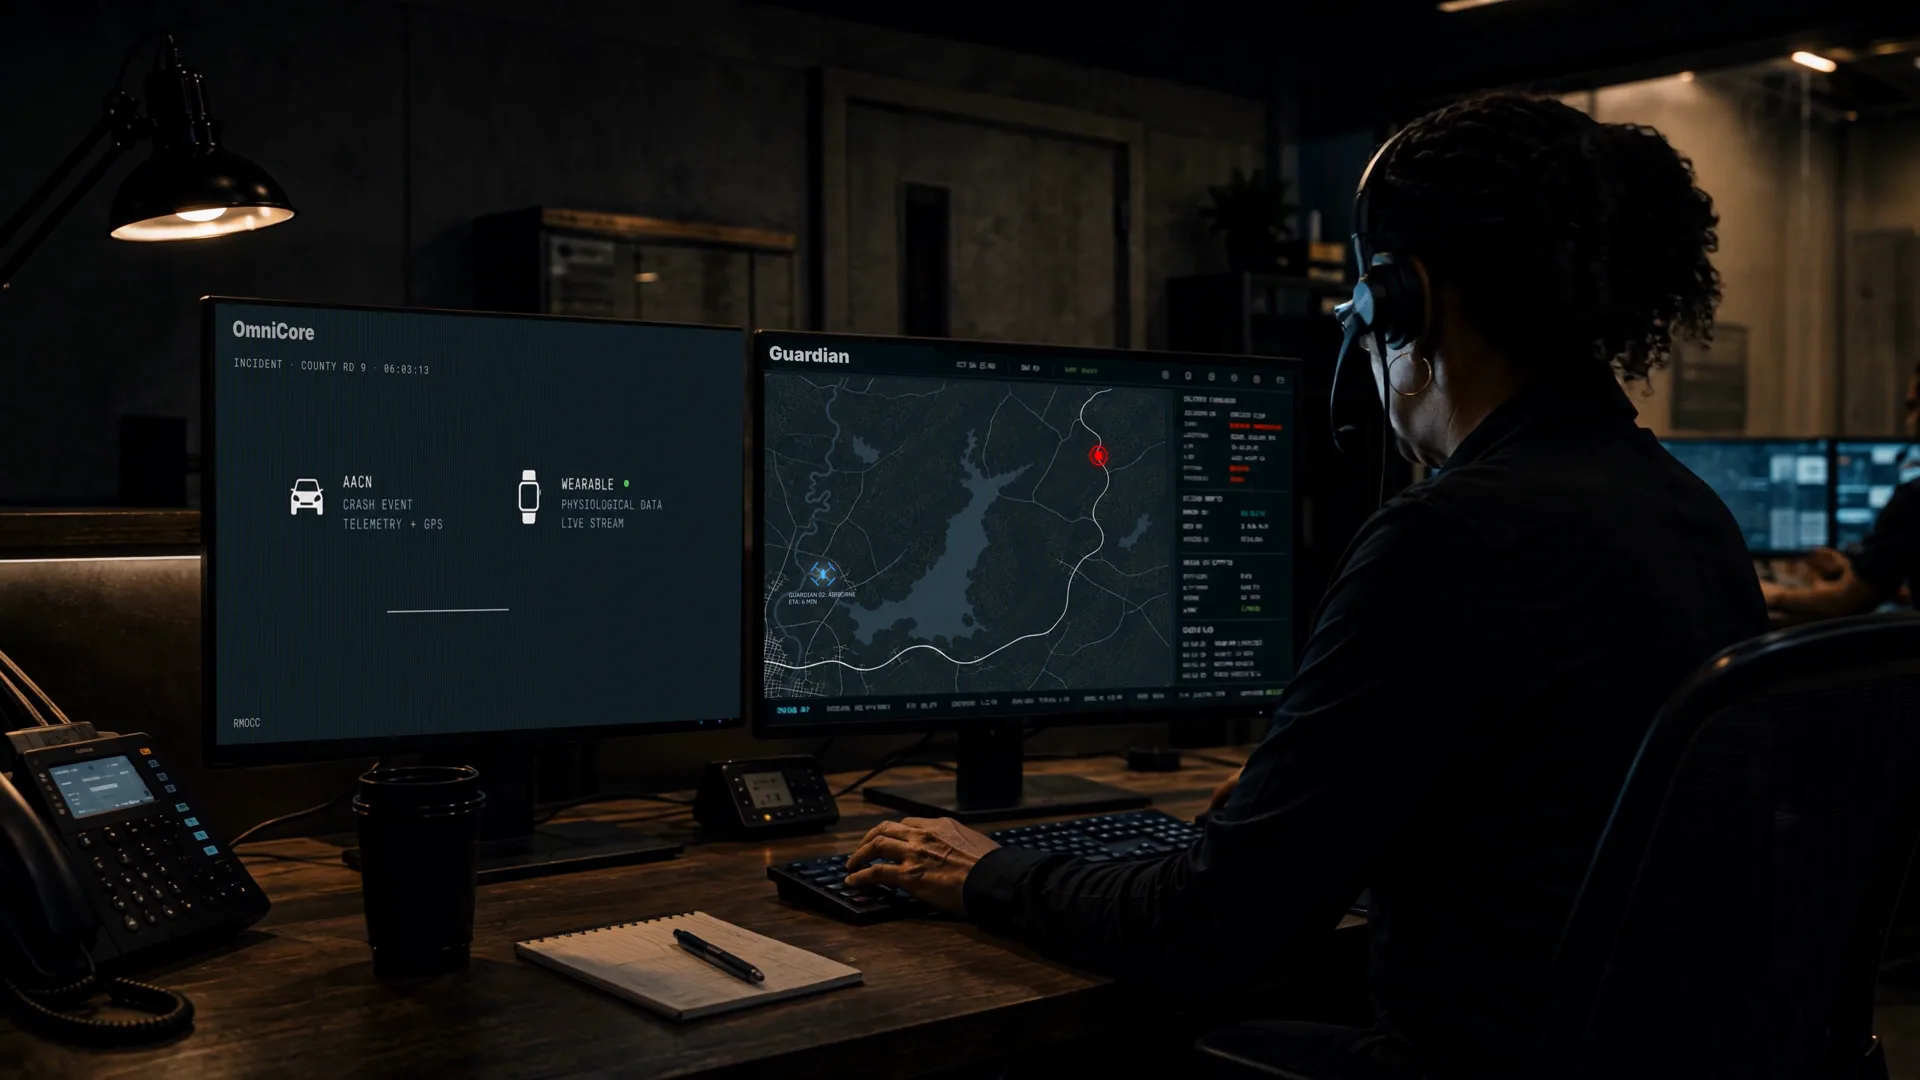
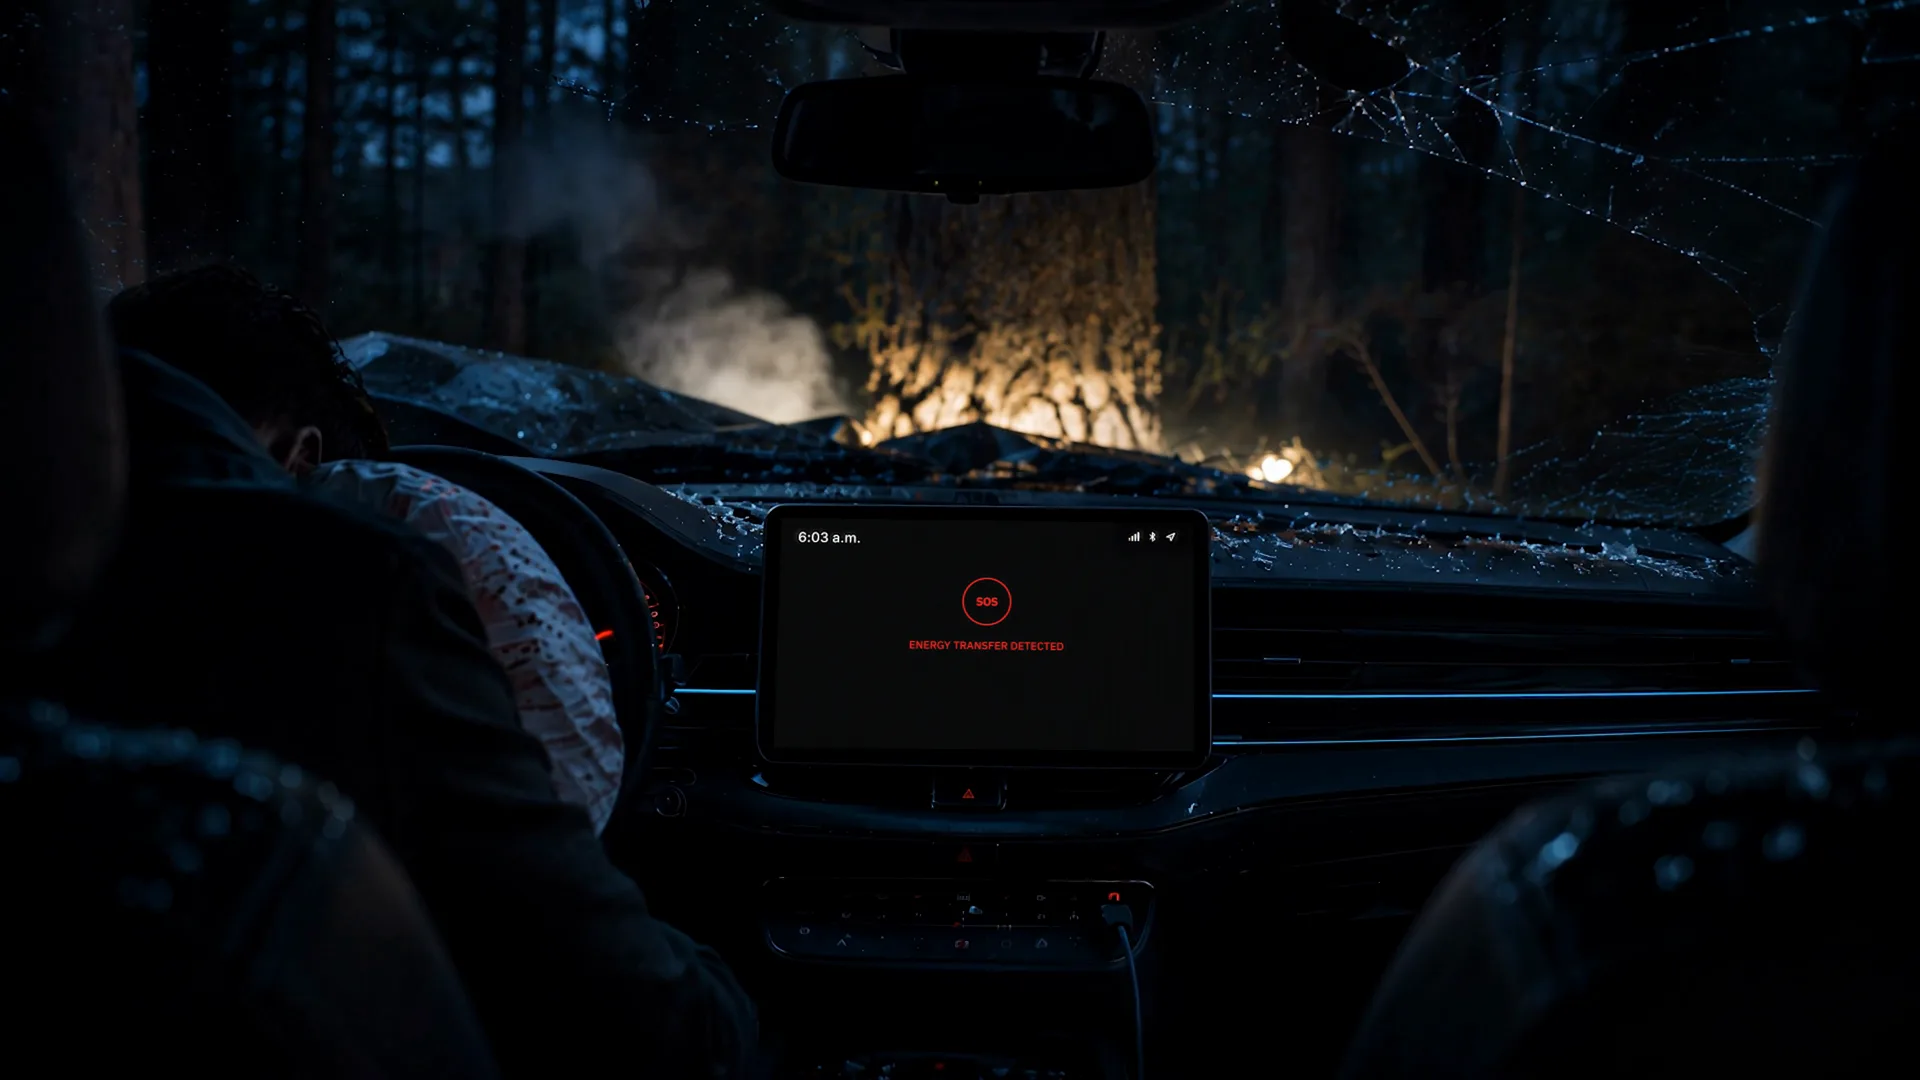
Film page: breakdown now uses the dashboard, a truly blank plate to the finished alert

diff --git a/projects/the-room-thats-ready.html b/projects/the-room-thats-ready.html
@@ -59,7 +59,7 @@
     }
     .grid-9 { display: grid; grid-template-columns: repeat(3, 1fr); gap: 8px; }
     .pair { display: grid; grid-template-columns: 1fr 1fr; gap: 12px; }
-    .build { display: grid; grid-template-columns: repeat(3, 1fr); gap: 10px; }
+    .build { display: grid; grid-template-columns: 1fr 1fr; gap: 12px; }
     .zoomable { cursor: zoom-in; }
 
     /* Lightbox */
@@ -151,16 +151,12 @@
         <div class="row-media">
           <div class="build">
             <figure>
-              <img src="../images/room/build-plate.webp" alt="The generated plate: a dispatcher at a desk with two monitors whose screens carry unreadable placeholder text." width="1920" height="1080" loading="lazy">
-              <figcaption>1. The generated plate. The monitors carry placeholder text that means nothing.</figcaption>
+              <img src="../images/room/build-plate.webp" alt="The generated plate: the wrecked car's interior from the back seat, airbag deflated, glass across the dash, the center screen dark and blank." width="1920" height="1080" loading="lazy">
+              <figcaption>The generated plate. The screen is blank by rule; no text is ever generated.</figcaption>
             </figure>
             <figure>
-              <img src="../images/room/build-ui.webp" alt="The designed interface on its own: AACN and WEARABLE panels with crash mechanics and live vitals in monospace capitals." width="1920" height="1080" loading="lazy">
-              <figcaption>2. The interface, designed and animated separately, in the film's screen language.</figcaption>
-            </figure>
-            <figure>
-              <img src="../images/room/build-final.webp" alt="The finished shot: the same dispatcher and desk, the designed interface now on both monitors, a red pin on the map." width="1920" height="1080" loading="lazy">
-              <figcaption>3. The finished shot. The interface is tracked onto both monitors, and the drone is already airborne on her map.</figcaption>
+              <img src="../images/room/build-final.webp" alt="The finished shot: the same interior, the center screen now showing a red crash alert reading ENERGY TRANSFER DETECTED, SENDING KINEMATICS." width="1920" height="1080" loading="lazy">
+              <figcaption>The finished shot. The alert is designed, animated, and tracked onto the screen afterward.</figcaption>
             </figure>
           </div>
         </div>
